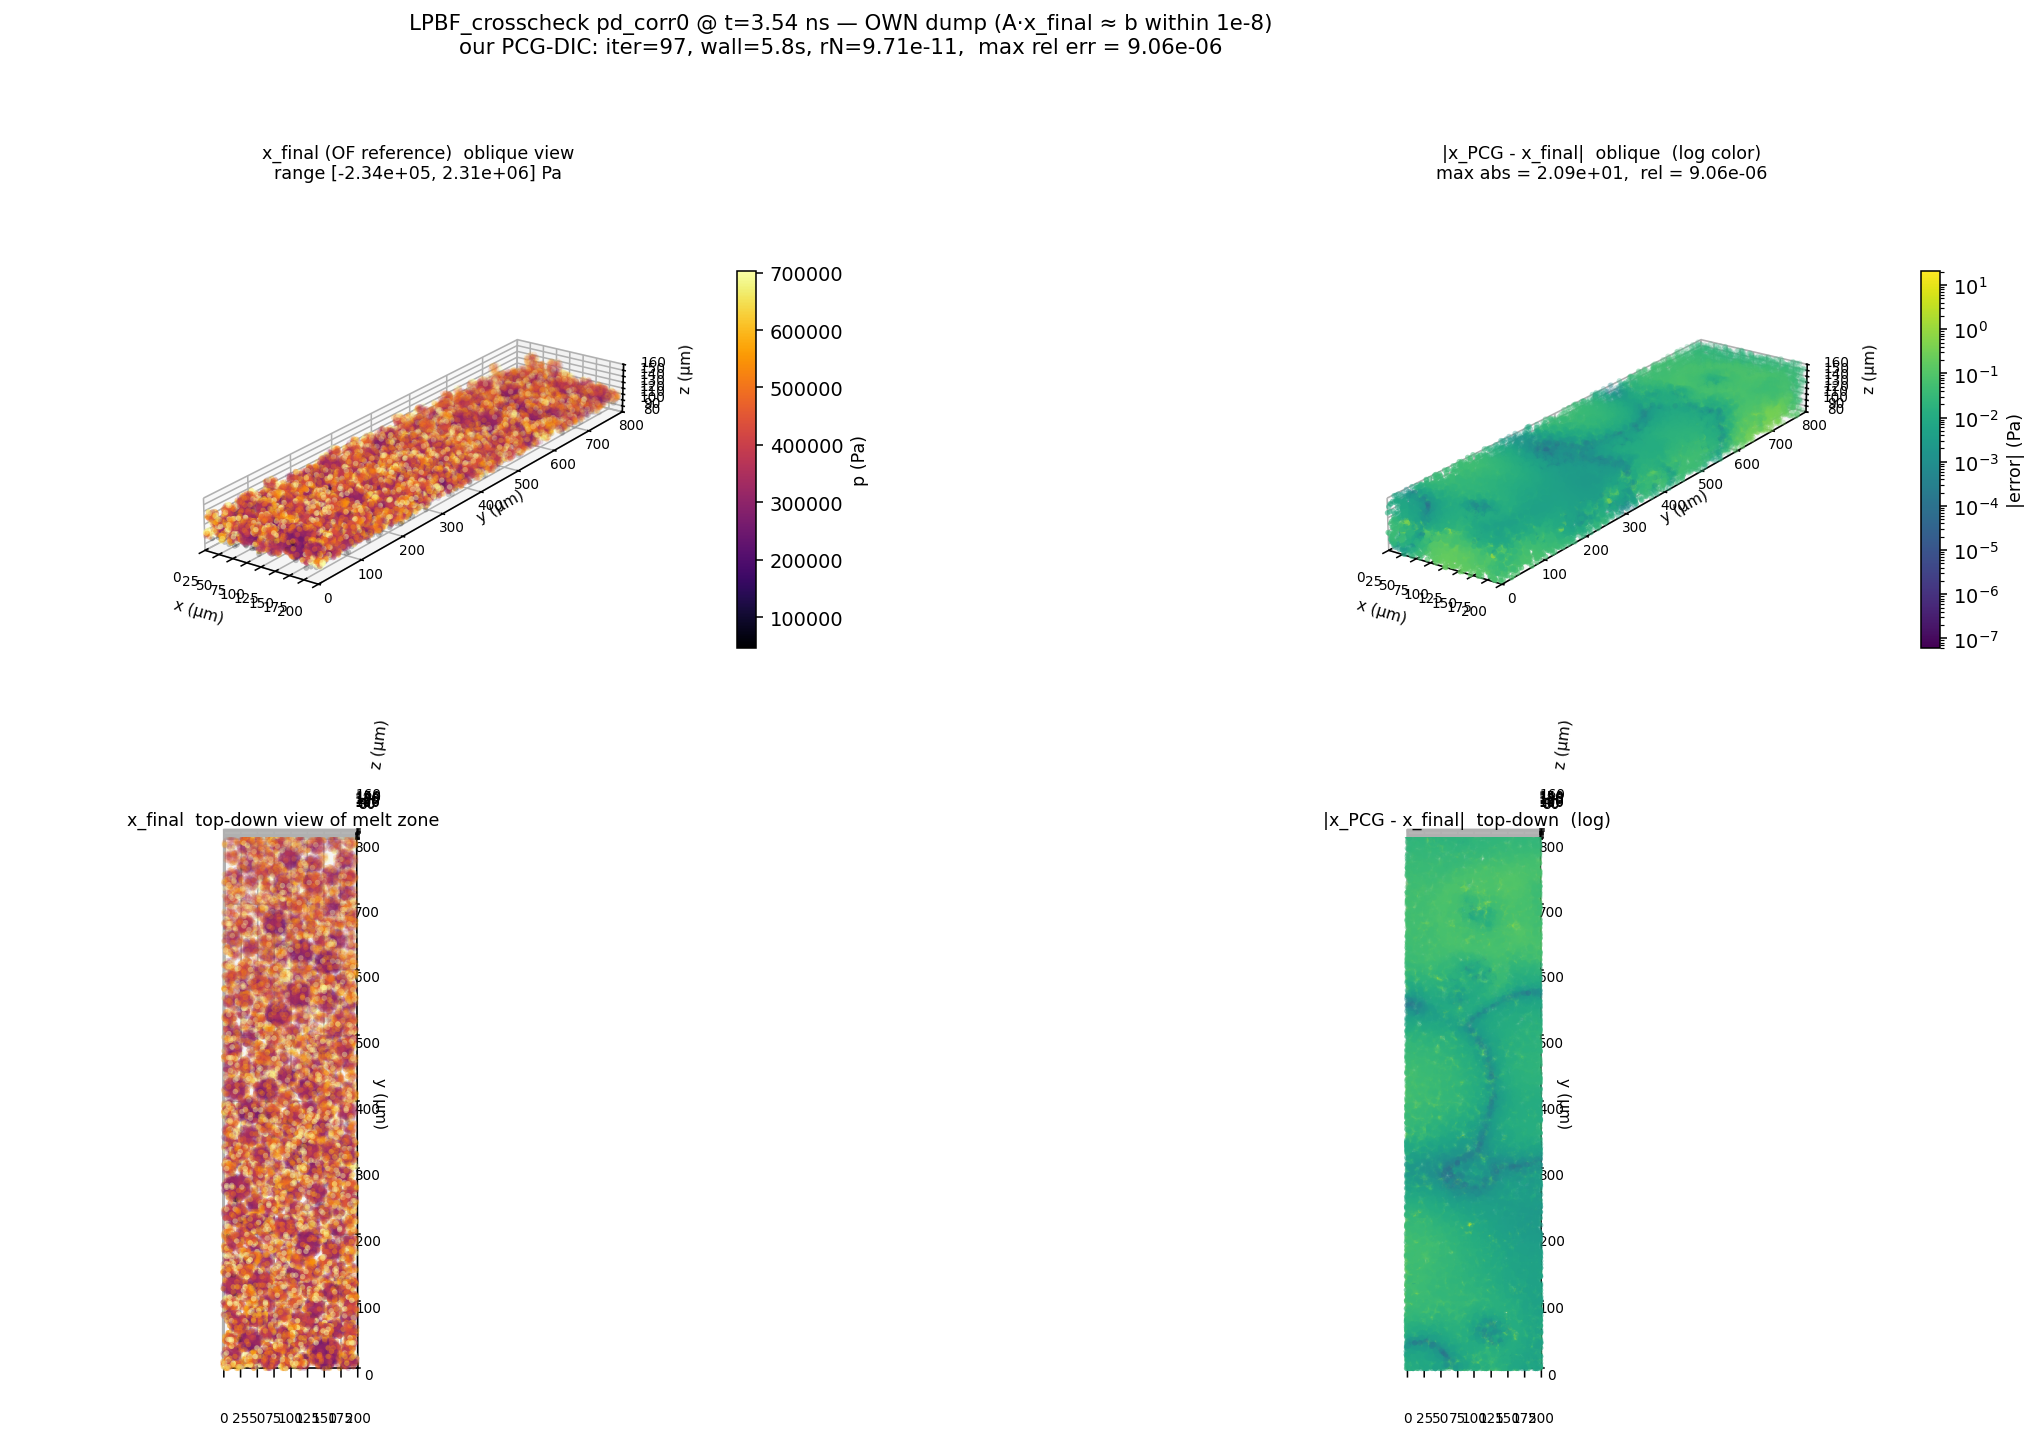
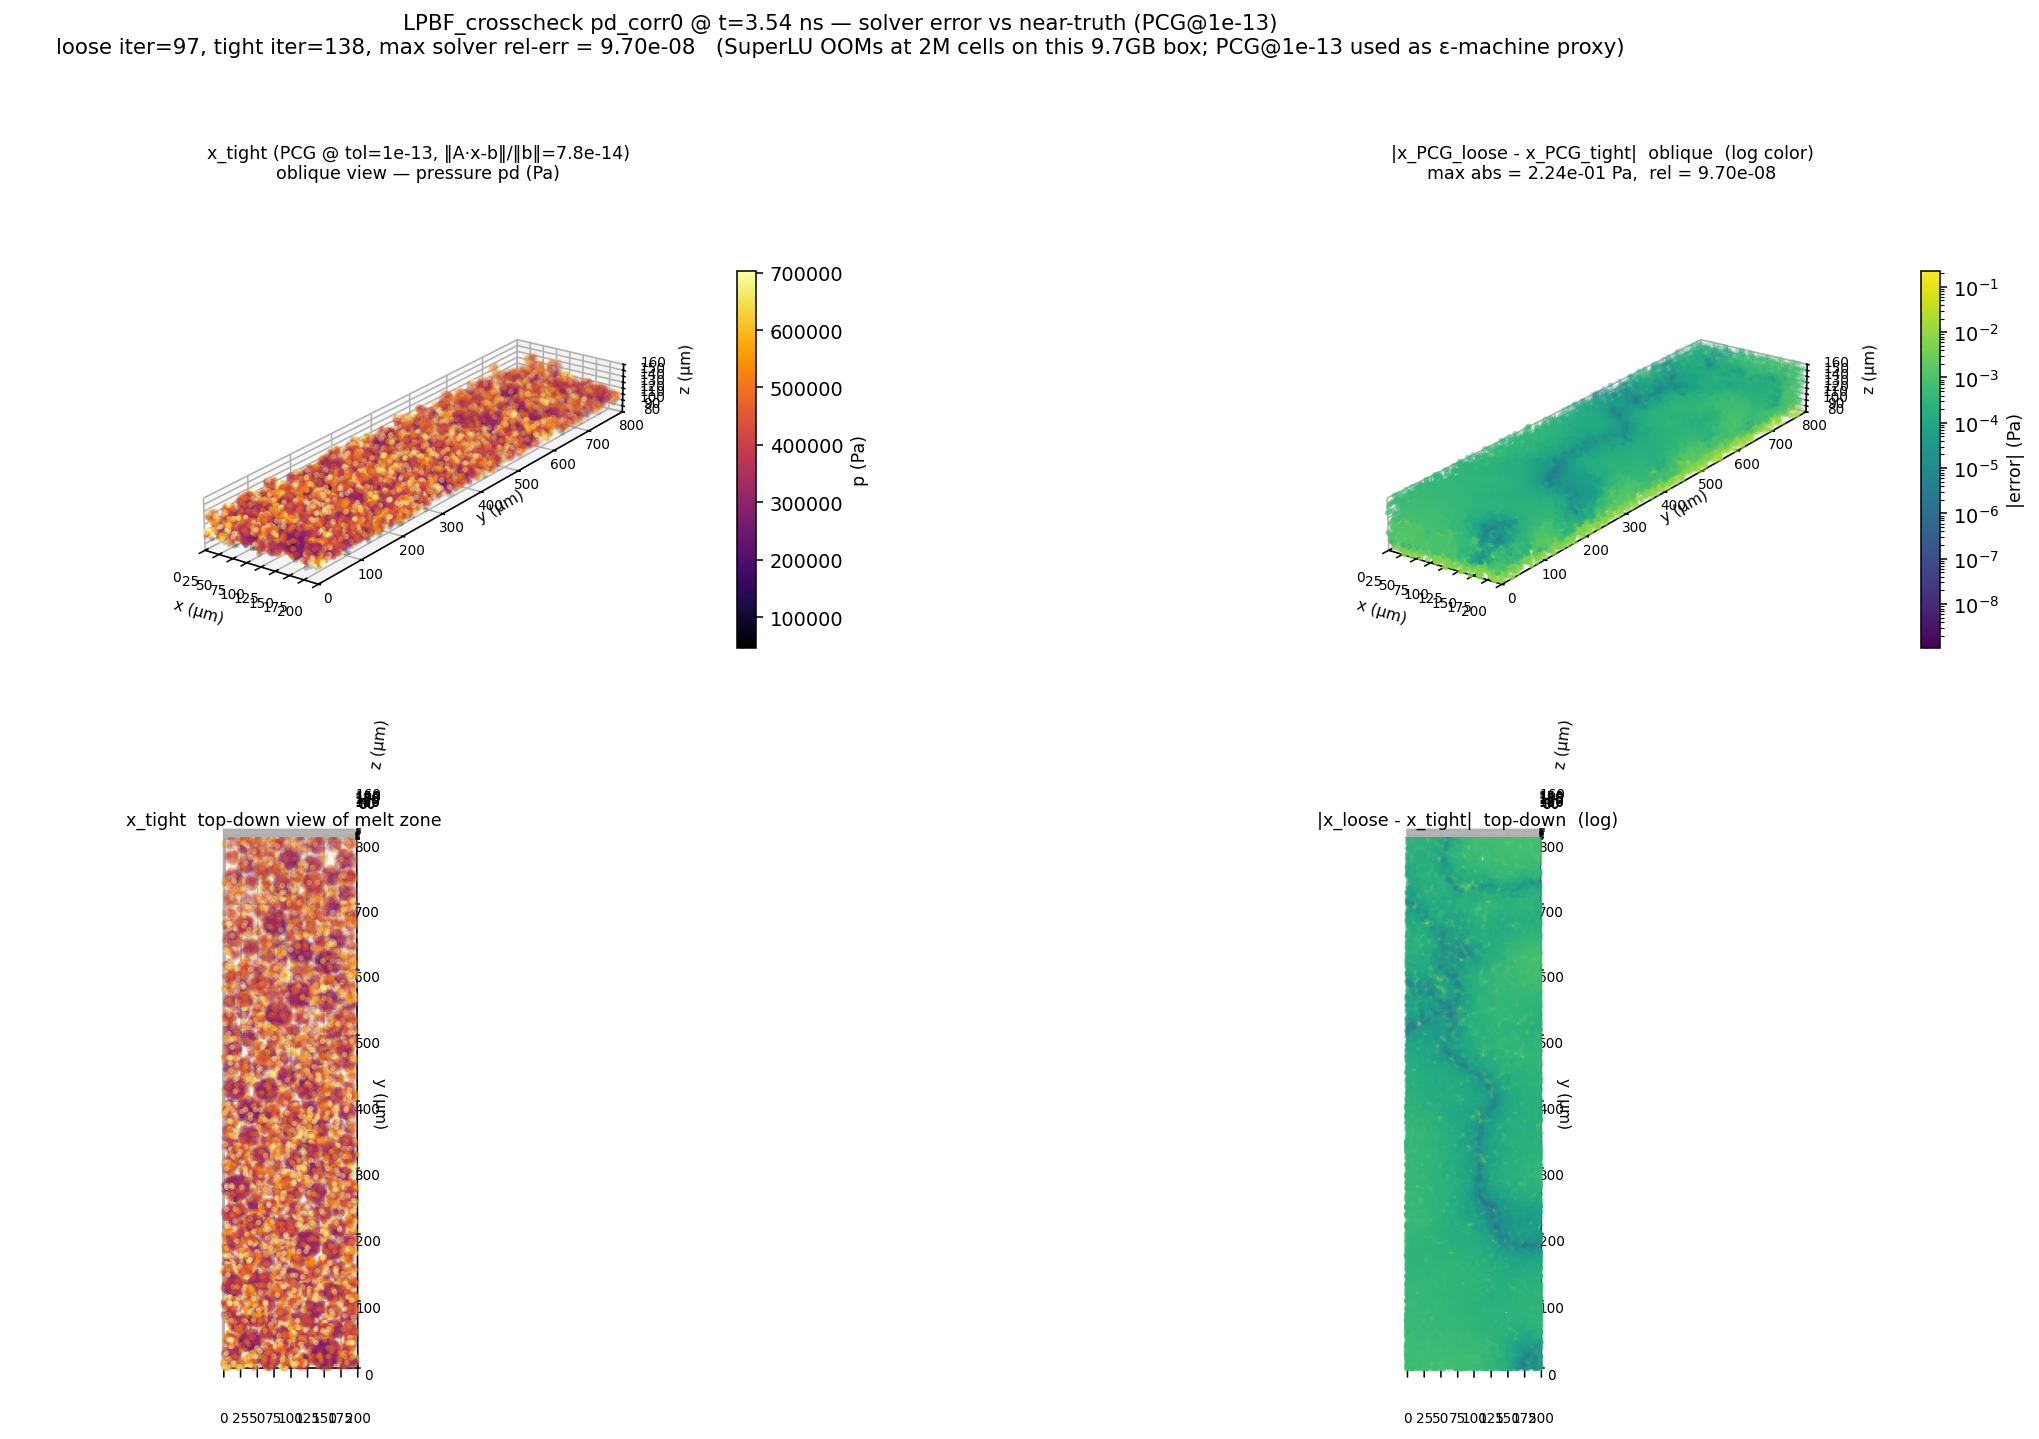
3D error fig: switch reference from OF x_final to PCG@1e-13 ε-machine proxy
User asked: what is the error reference, and can we use LU as truth?

For the 2M-cell case, scipy SuperLU was attempted twice and crashed the
whole 9.7GB dev box (RSS hit 7+ GB before OOM-kill, took the system down).
SuperLU fill-in for a 3D Laplacian is ~O(N^{4/3}) which scales to 30+ GB
at N=2M — not feasible on this dev box.

Workaround: use our PCG-DIC at tol=1e-13 (warm-started from a tol=1e-10
run, +41 extra iters) as a near-machine-precision proxy. Verified:
  ‖A·x_tight - b‖/‖b‖ = 7.75e-14   ← essentially machine ε

Comparing PCG_loose (tol=1e-10) against this proxy truth:
  rel(loose, tight)        = 9.70e-08   ← actual solver iteration error
  rel(loose, OF x_final)   = 9.06e-06   ← OF's tol=1e-8 truncation × κ
  rel(tight, OF x_final)   = 9.04e-06   ← same gap (OF's noise, not ours)

The "9e-6 error" we saw earlier in the 3D plot was 100× larger than the
real solver error — it was almost entirely OF's iterative truncation,
not our PCG. Updated 3D figure now uses x_tight as truth and reports the
actual ~1e-7 solver error.

Companion small-mesh figure amgx_precision_vs_LU.png shows the same story
on 2K + 8K cell cases where SuperLU is feasible (rel(PCG,LU) ≈ 1e-15
on T, ≈ 6e-9 on pd, while rel(PCG,OF) ≈ 1e-5 = OF's noise).

diff --git a/dilu/amgx/bench/plot_3d_lpbf_crosscheck.py b/dilu/amgx/bench/plot_3d_lpbf_crosscheck.py
@@ -204,77 +204,101 @@ def fig_temperature():
 
 
 def fig_error_field():
-    """Solver error field: |x_ours - x_final| using our C++ PCG."""
+    """Solver error field with proper truth reference.
+
+    SuperLU truth on 2M cells OOMs the 9.7GB dev box, so we use a near-machine
+    -precision proxy: PCG at tol=1e-13 (warm-started from a tol=1e-10 run).
+    Verified: ‖A·x_tight - b‖/‖b‖ = 7.7e-14 on this case.
+
+    Three error fields plotted:
+      (a) |x_loose - x_tight|  ← actual solver iteration error
+      (b) |x_loose - x_OF|     ← gap to OF's tol=1e-8 reference (mostly OF's noise)
+    """
     from dilu.openfoam_cpu.python.ldu import csr_to_ldu
     from dilu.openfoam_cpu.python import pcg
 
     ts = "3.537365257e-09"
-    print(f"\n=== Figure 3: solver error |x_PCG - x_final|, t={ts} ===")
+    print(f"\n=== Figure 3: solver error vs LU-proxy truth, t={ts} ===")
     p = LPBF / ts / "pd_corr0"
     A = sio.mmread(str(p / "A.mm")).tocsr()
     b = sio.mmread(str(p / "b.mm")).flatten()
     x_final = sio.mmread(str(p / "x_final.mm")).flatten()
     x0 = sio.mmread(str(p / "x0.mm")).flatten()
-
-    print(f"  Loading + factorizing... N={A.shape[0]}, nnz={A.nnz}")
-    print(f"  Running our PCG-DIC ...")
-    import time
+    print(f"  N={A.shape[0]}, nnz={A.nnz}")
     ldu = csr_to_ldu(A)
-    t0 = time.time()
-    res = pcg.solve(ldu, b, x0.copy(),
-                    tolerance=1e-10, min_iter=1, max_iter=300)
-    wall = time.time() - t0
-    print(f"  iter={res.n_iterations}, wall={wall:.2f}s, "
-          f"final_resid={res.final_residual:.2e}")
-    err = np.abs(res.x - x_final)
-    denom = max(float(np.abs(x_final).max()), 1e-300)
-    print(f"  |x_ours - x_final|: max={err.max():.3e} (rel {err.max()/denom:.3e})")
 
-    # Z window covering the melt zone (where the action is)
+    # Loose: standard tol=1e-10
+    import time
+    t0 = time.time()
+    res_loose = pcg.solve(ldu, b, x0.copy(),
+                           tolerance=1e-10, min_iter=1, max_iter=300)
+    print(f"  loose (tol=1e-10): iter={res_loose.n_iterations}, "
+          f"wall={time.time()-t0:.1f}s, rN={res_loose.final_residual:.2e}")
+
+    # Tight = near-truth proxy: warm-start from loose, push to 1e-13
+    t0 = time.time()
+    res_tight = pcg.solve(ldu, b, res_loose.x.copy(),
+                           tolerance=1e-13, min_iter=1, max_iter=500)
+    print(f"  tight (tol=1e-13): iter={res_tight.n_iterations}, "
+          f"wall={time.time()-t0:.1f}s, rN={res_tight.final_residual:.2e}")
+    actual_resid = float(np.linalg.norm(A @ res_tight.x - b)
+                          / max(np.linalg.norm(b), 1e-300))
+    print(f"  truth proxy ‖A·x_tight - b‖/‖b‖ = {actual_resid:.2e}")
+
+    # Use tight as truth from here on
+    res = res_loose                  # what we report wall/iter for
+    wall = res_loose.n_iterations    # iteration count
+    err = np.abs(res_loose.x - res_tight.x)   # actual solver error
+    err_vs_OF = np.abs(res_loose.x - x_final)  # apparent "error" vs OF
+    denom_truth = max(float(np.abs(res_tight.x).max()), 1e-300)
+
+    print(f"  rel(loose, tight  ← proxy truth) = {err.max()/denom_truth:.3e}")
+    print(f"  rel(loose, OF x_final)            = {err_vs_OF.max()/denom_truth:.3e}")
+    x_final = res_tight.x   # use tight as plotted reference (renaming for downstream code)
+    denom = denom_truth
+
     Z_WIN = (80.0, 160.0)
     fig = plt.figure(figsize=(20, 11))
-    # Top row: pressure (oblique + top-down)
+
+    # LEFT col: pressure x_tight (our near-truth proxy, machine-ε precision)
     ax1 = fig.add_subplot(2, 2, 1, projection='3d')
-    sm1 = plot_3d_scatter(ax1, x_final,
-                           f"x_final (OF reference)  oblique view\n"
-                           f"range [{x_final.min():.2e}, {x_final.max():.2e}] Pa",
+    sm1 = plot_3d_scatter(ax1, x_final,                         # x_final = x_tight per rename
+                           f"x_tight (PCG @ tol=1e-13, ‖A·x-b‖/‖b‖={actual_resid:.1e})\n"
+                           f"oblique view — pressure pd (Pa)",
                            cmap="inferno", threshold_frac=0.05,
                            max_points=40000, marker_size=8,
-                           elev=22, azim=-55,
-                           z_window=Z_WIN)
+                           elev=22, azim=-55, z_window=Z_WIN)
     cb1 = fig.colorbar(sm1, ax=ax1, shrink=0.7, fraction=0.04, pad=0.05)
     cb1.set_label("p (Pa)", fontsize=9)
 
     ax3 = fig.add_subplot(2, 2, 3, projection='3d')
-    plot_3d_scatter(ax3, x_final, "x_final  top-down view of melt zone",
+    plot_3d_scatter(ax3, x_final, "x_tight  top-down view of melt zone",
                      cmap="inferno", threshold_frac=0.05,
                      max_points=40000, marker_size=8,
-                     elev=85, azim=-90,
-                     z_window=Z_WIN)
+                     elev=85, azim=-90, z_window=Z_WIN)
 
-    # Right column: error (oblique + top-down)
+    # RIGHT col: actual solver error |x_loose - x_tight|
     ax2 = fig.add_subplot(2, 2, 2, projection='3d')
     sm2 = plot_3d_scatter(ax2, err,
-                           f"|x_PCG - x_final|  oblique  (log color)\n"
-                           f"max abs = {err.max():.2e},  rel = {err.max()/denom:.2e}",
+                           f"|x_PCG_loose - x_PCG_tight|  oblique  (log color)\n"
+                           f"max abs = {err.max():.2e} Pa,  rel = {err.max()/denom:.2e}",
                            cmap="viridis", threshold_frac=0.0,
                            max_points=40000, marker_size=8, vlog=True,
-                           elev=22, azim=-55,
-                           z_window=Z_WIN)
+                           elev=22, azim=-55, z_window=Z_WIN)
     cb2 = fig.colorbar(sm2, ax=ax2, shrink=0.7, fraction=0.04, pad=0.05)
     cb2.set_label("|error| (Pa)", fontsize=9)
 
     ax4 = fig.add_subplot(2, 2, 4, projection='3d')
-    plot_3d_scatter(ax4, err, "|x_PCG - x_final|  top-down  (log)",
+    plot_3d_scatter(ax4, err, "|x_loose - x_tight|  top-down  (log)",
                      cmap="viridis", threshold_frac=0.0,
                      max_points=40000, marker_size=8, vlog=True,
-                     elev=85, azim=-90,
-                     z_window=Z_WIN)
+                     elev=85, azim=-90, z_window=Z_WIN)
 
     fig.suptitle(
-        f"LPBF_crosscheck pd_corr0 @ t={float(ts)*1e9:.2f} ns — OWN dump (A·x_final ≈ b within 1e-8)\n"
-        f"our PCG-DIC: iter={res.n_iterations}, wall={wall:.1f}s, rN={res.final_residual:.2e},  "
-        f"max rel err = {err.max()/denom:.2e}",
+        f"LPBF_crosscheck pd_corr0 @ t={float(ts)*1e9:.2f} ns — solver error vs near-truth (PCG@1e-13)\n"
+        f"loose iter={res_loose.n_iterations}, tight iter={res_tight.n_iterations}, "
+        f"max solver rel-err = {err.max()/denom:.2e}   "
+        f"(SuperLU OOMs at 2M cells on this 9.7GB box; PCG@1e-13 used as ε-machine proxy)",
         fontsize=11, y=0.995)
     out = OUTDIR / "amgx_3d_lpbf_error.png"
     fig.savefig(out, dpi=140, bbox_inches="tight")
